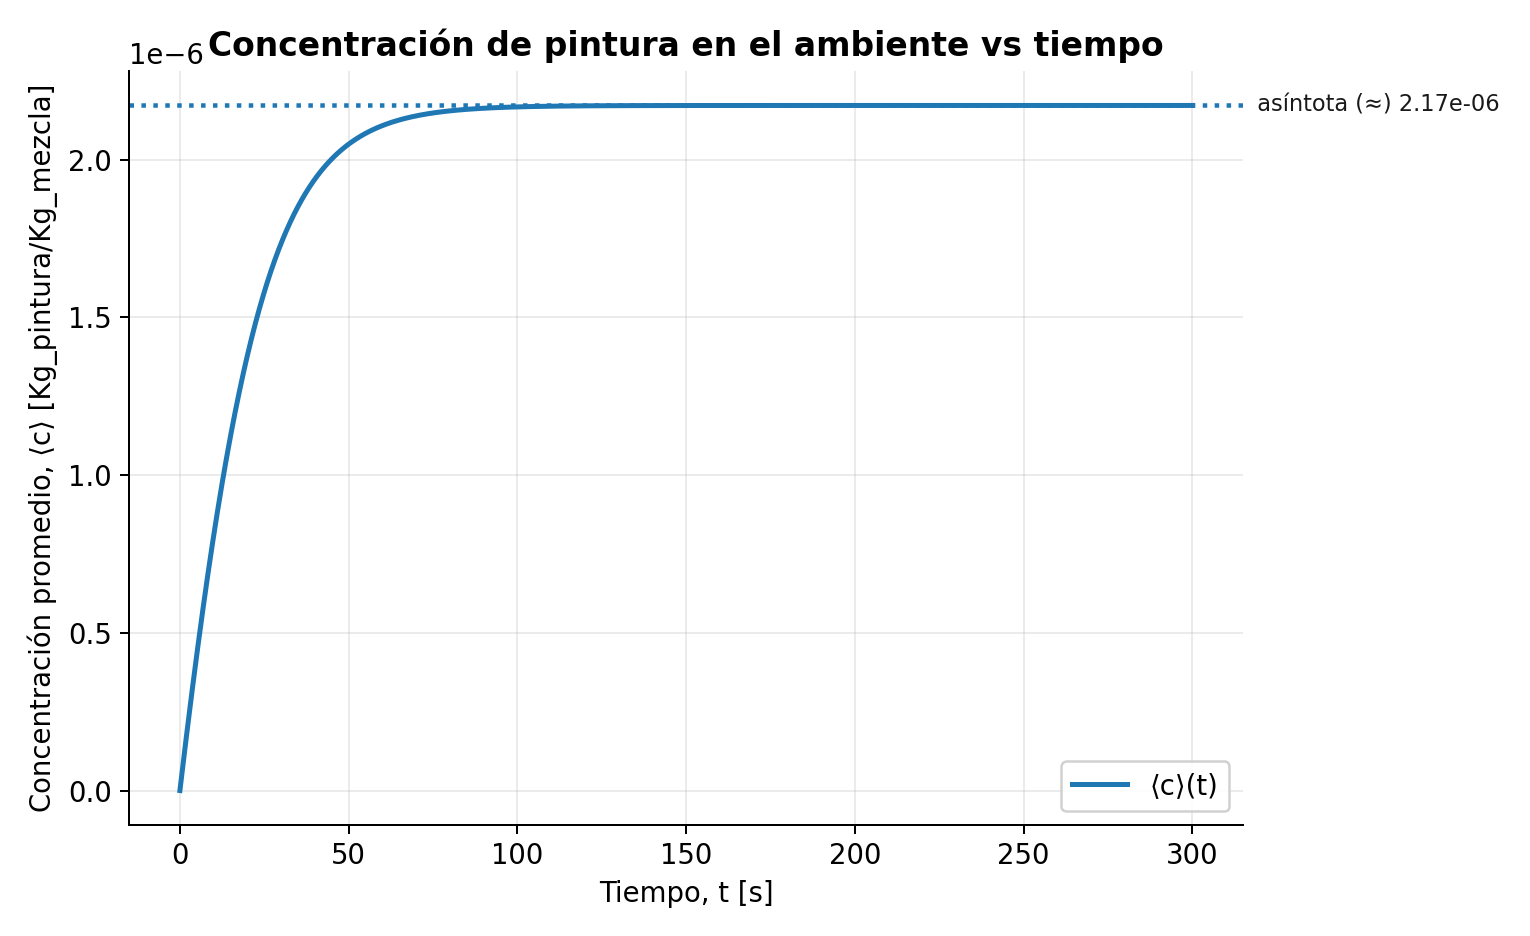
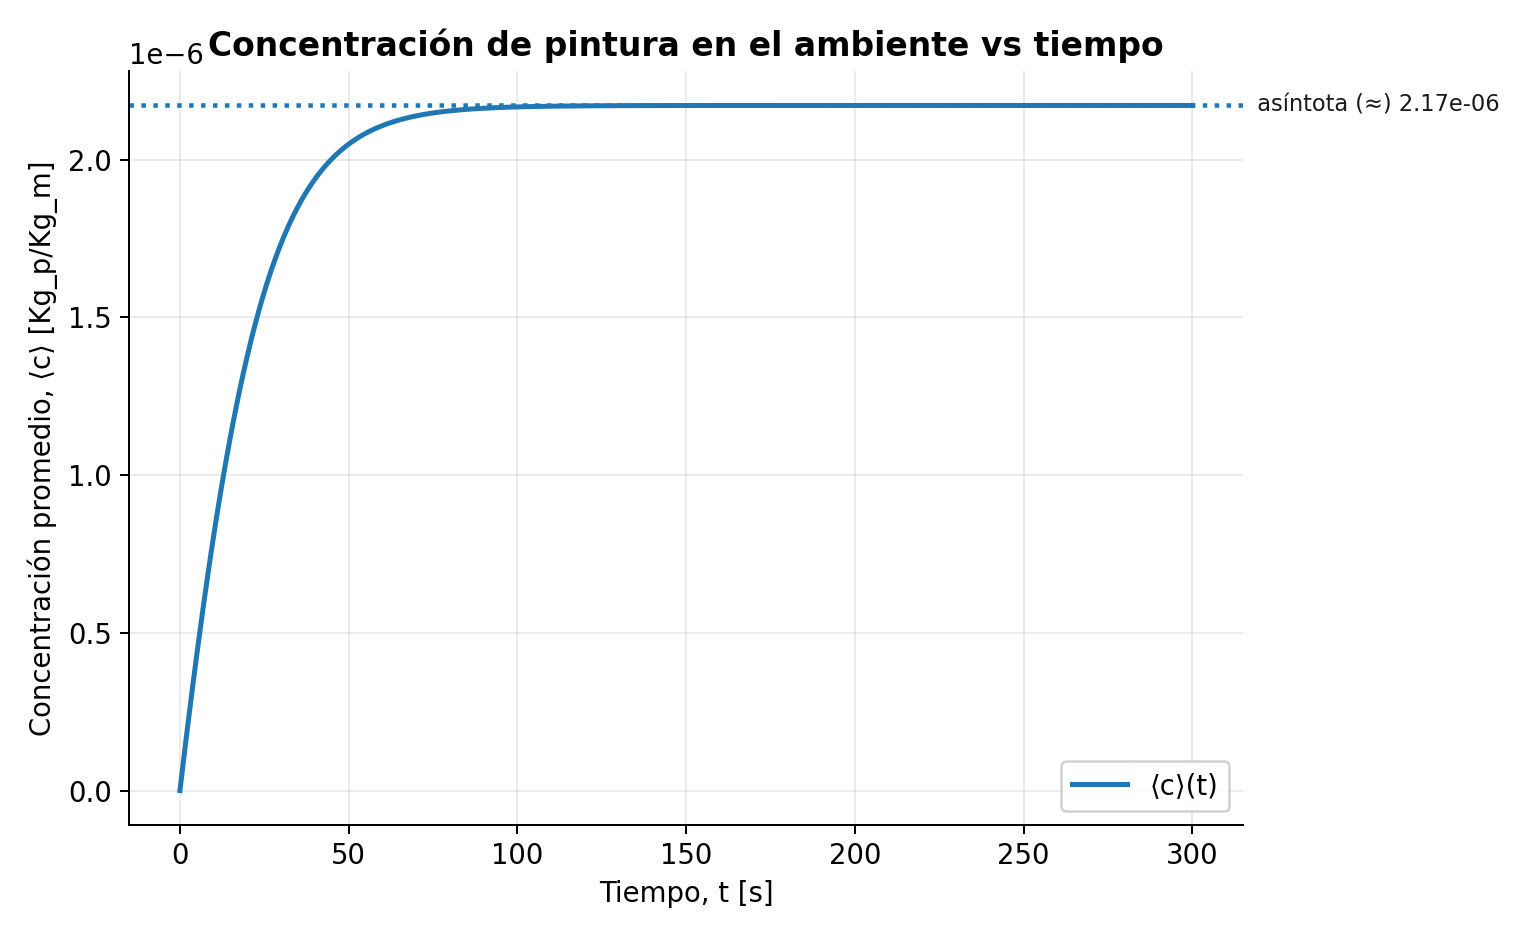
zi

Changed region(s): [[0.0, 0.0929, 0.0614, 0.8675]]

diff --git a/Entrega 3/run_sim.py b/Entrega 3/run_sim.py
@@ -64,7 +64,7 @@ def main():
     fig1, ax1 = plt.subplots()
     ax1.plot(t, c, linewidth=2, label="⟨c⟩(t)")
     ax1.set_xlabel("Tiempo, t [s]")
-    ax1.set_ylabel("Concentración promedio, ⟨c⟩ [Kg_pintura/Kg_mezcla]")
+    ax1.set_ylabel("Concentración promedio, ⟨c⟩ [Kg_p/Kg_m]")
     ax1.set_title("Concentración de pintura en el ambiente vs tiempo")
 
     c_inf = estimate_upper_asymptote(c, tail_frac=0.15, quantile=0.90)
